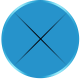
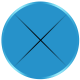
修改三维导航球样式

diff --git a/src/views/decisionSystem/deploy3D.vue b/src/views/decisionSystem/deploy3D.vue
@@ -841,6 +841,31 @@ export default {
 /deep/.compass {
   right: 8px !important;
   top: 8px !important;
+  width: 107px !important;
+  height: 107px !important;
+}
+
+/deep/.compass-outer-ring {
+  background: url(../../assets/images/3d/N.png) no-repeat !important;
+}
+
+/deep/.compass-outer-ring-background {
+  display: none;
+}
+
+/deep/.compass-rotation-marker {
+    display: none !important;
+}
+
+/deep/.compass-gyro-background {
+  top: 25%;
+  left: 25%;
+  width: 50%;
+  height: 50%;
+  border-radius: 50%;
+  background-color: rgba(47, 53, 60, 0.8);
+  box-sizing: content-box;
+  //background-image: url(img/compass-inner.svg);
 }
 
 /deep/.mars3d-popup-content-wrapper {
@@ -1180,14 +1205,14 @@ export default {
   .rightTool {
     display: flex;
     flex-direction: column;
-    width: 78px;
+    width: 80px;
     position: absolute;
-    right: 8px;
-    top: 80px;
-    align-items:center;
+    right: 20px;
+    top: 125px;
+    align-items: center;
     .move {
-      width: 78px;
-      height: 78px;
+      width: 80px;
+      height: 80px;
       display: inline-block;
       background: url(../../assets/images/3d/move-bg.png) no-repeat;
       position: relative;
@@ -1197,8 +1222,9 @@ export default {
         position: absolute;
       }
       span:nth-child(1) {
-        left: 20px;
-        top: 19px;
+        left: 50%;
+        top: 50%;
+        transform: translate(-50%,-50%);
         width: 40px;
         height: 40px;
         background: url(../../assets/images/3d/hand.png) no-repeat;
@@ -1243,7 +1269,7 @@ export default {
       background: url(../../assets/images/3d/+.png) no-repeat;
     }
     > span:nth-child(3) {
-       margin-top: 10px;
+      margin-top: 10px;
       background: url(../../assets/images/3d/-.png) no-repeat;
     }
   }
